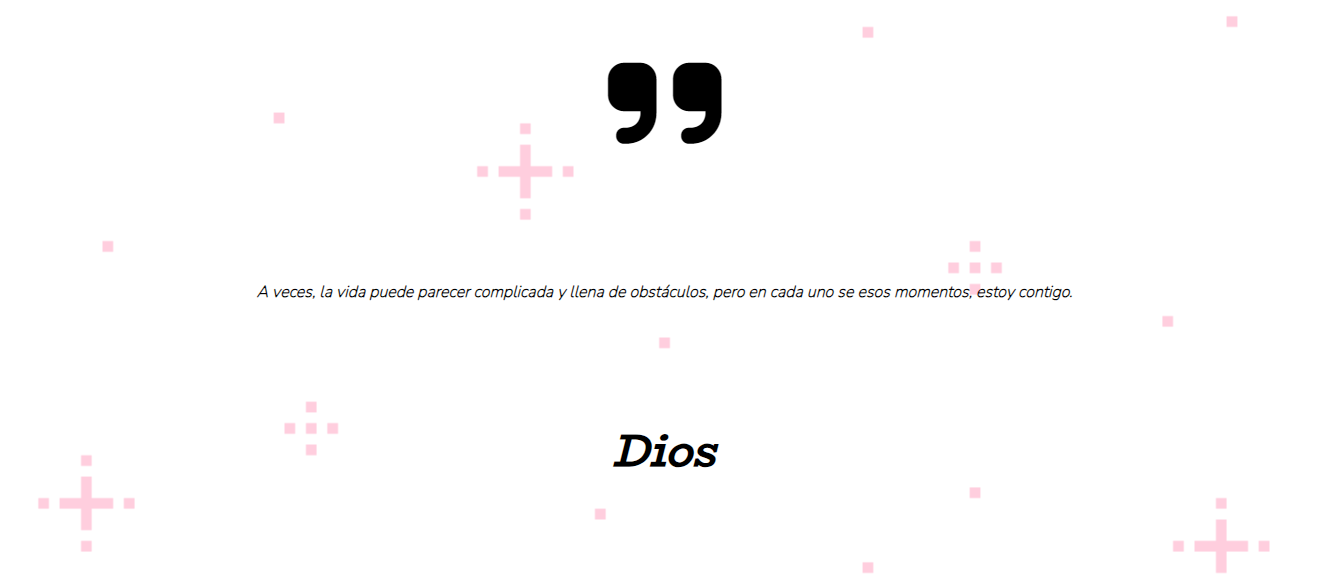
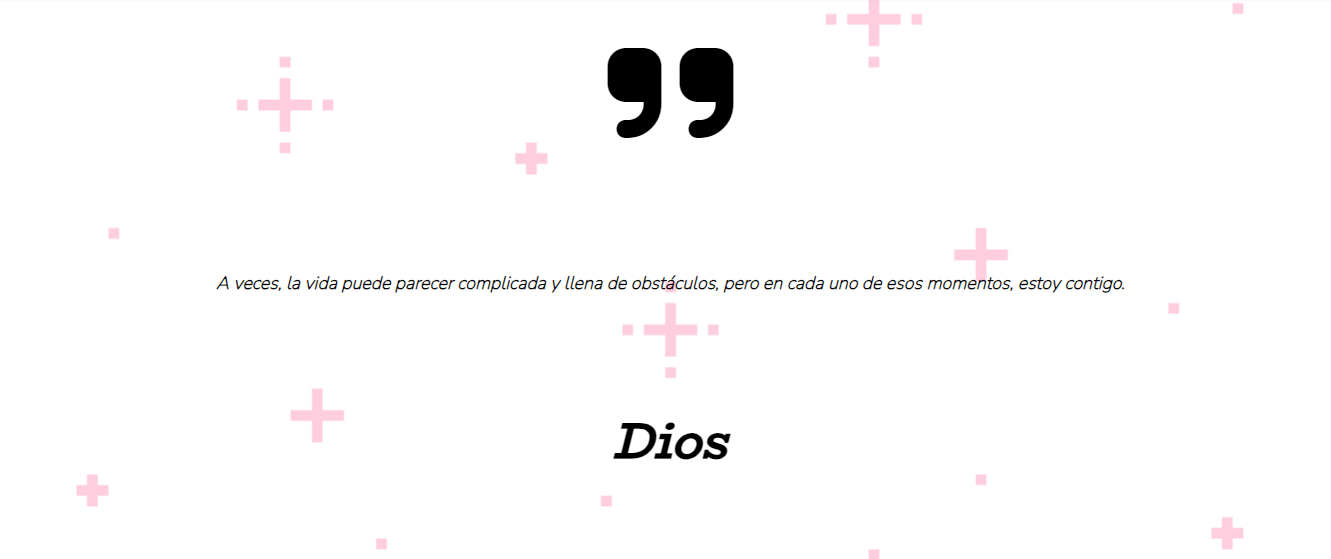
Modificacion de imagen

diff --git a/README.md b/README.md
@@ -18,7 +18,7 @@ Esta es la presentación de mis proyectos que fueron desarrollados con mucho per
 ![Mis Proyectos](Imagenes/mis-proyectos-imagen-3.png)
 
 En esta sección podrás ver la parte de contacto, donde pueden escribirme para contactarse conmigo, es una sección que me gusta bastante por los detalles. 
-![Contacto](Imagenes/contacto-imagen.png)
+![Contacto](Imagenes/quote-imagen.png)
 
 Por último, este es el footer, aquí tambien podrás clikear y que te lleve a la sección correspondiente, tambien cuenta con mis redes sociales para que también puedan contactarse conmigo.
 ![Footer](Imagenes/footer-imagen.png)
